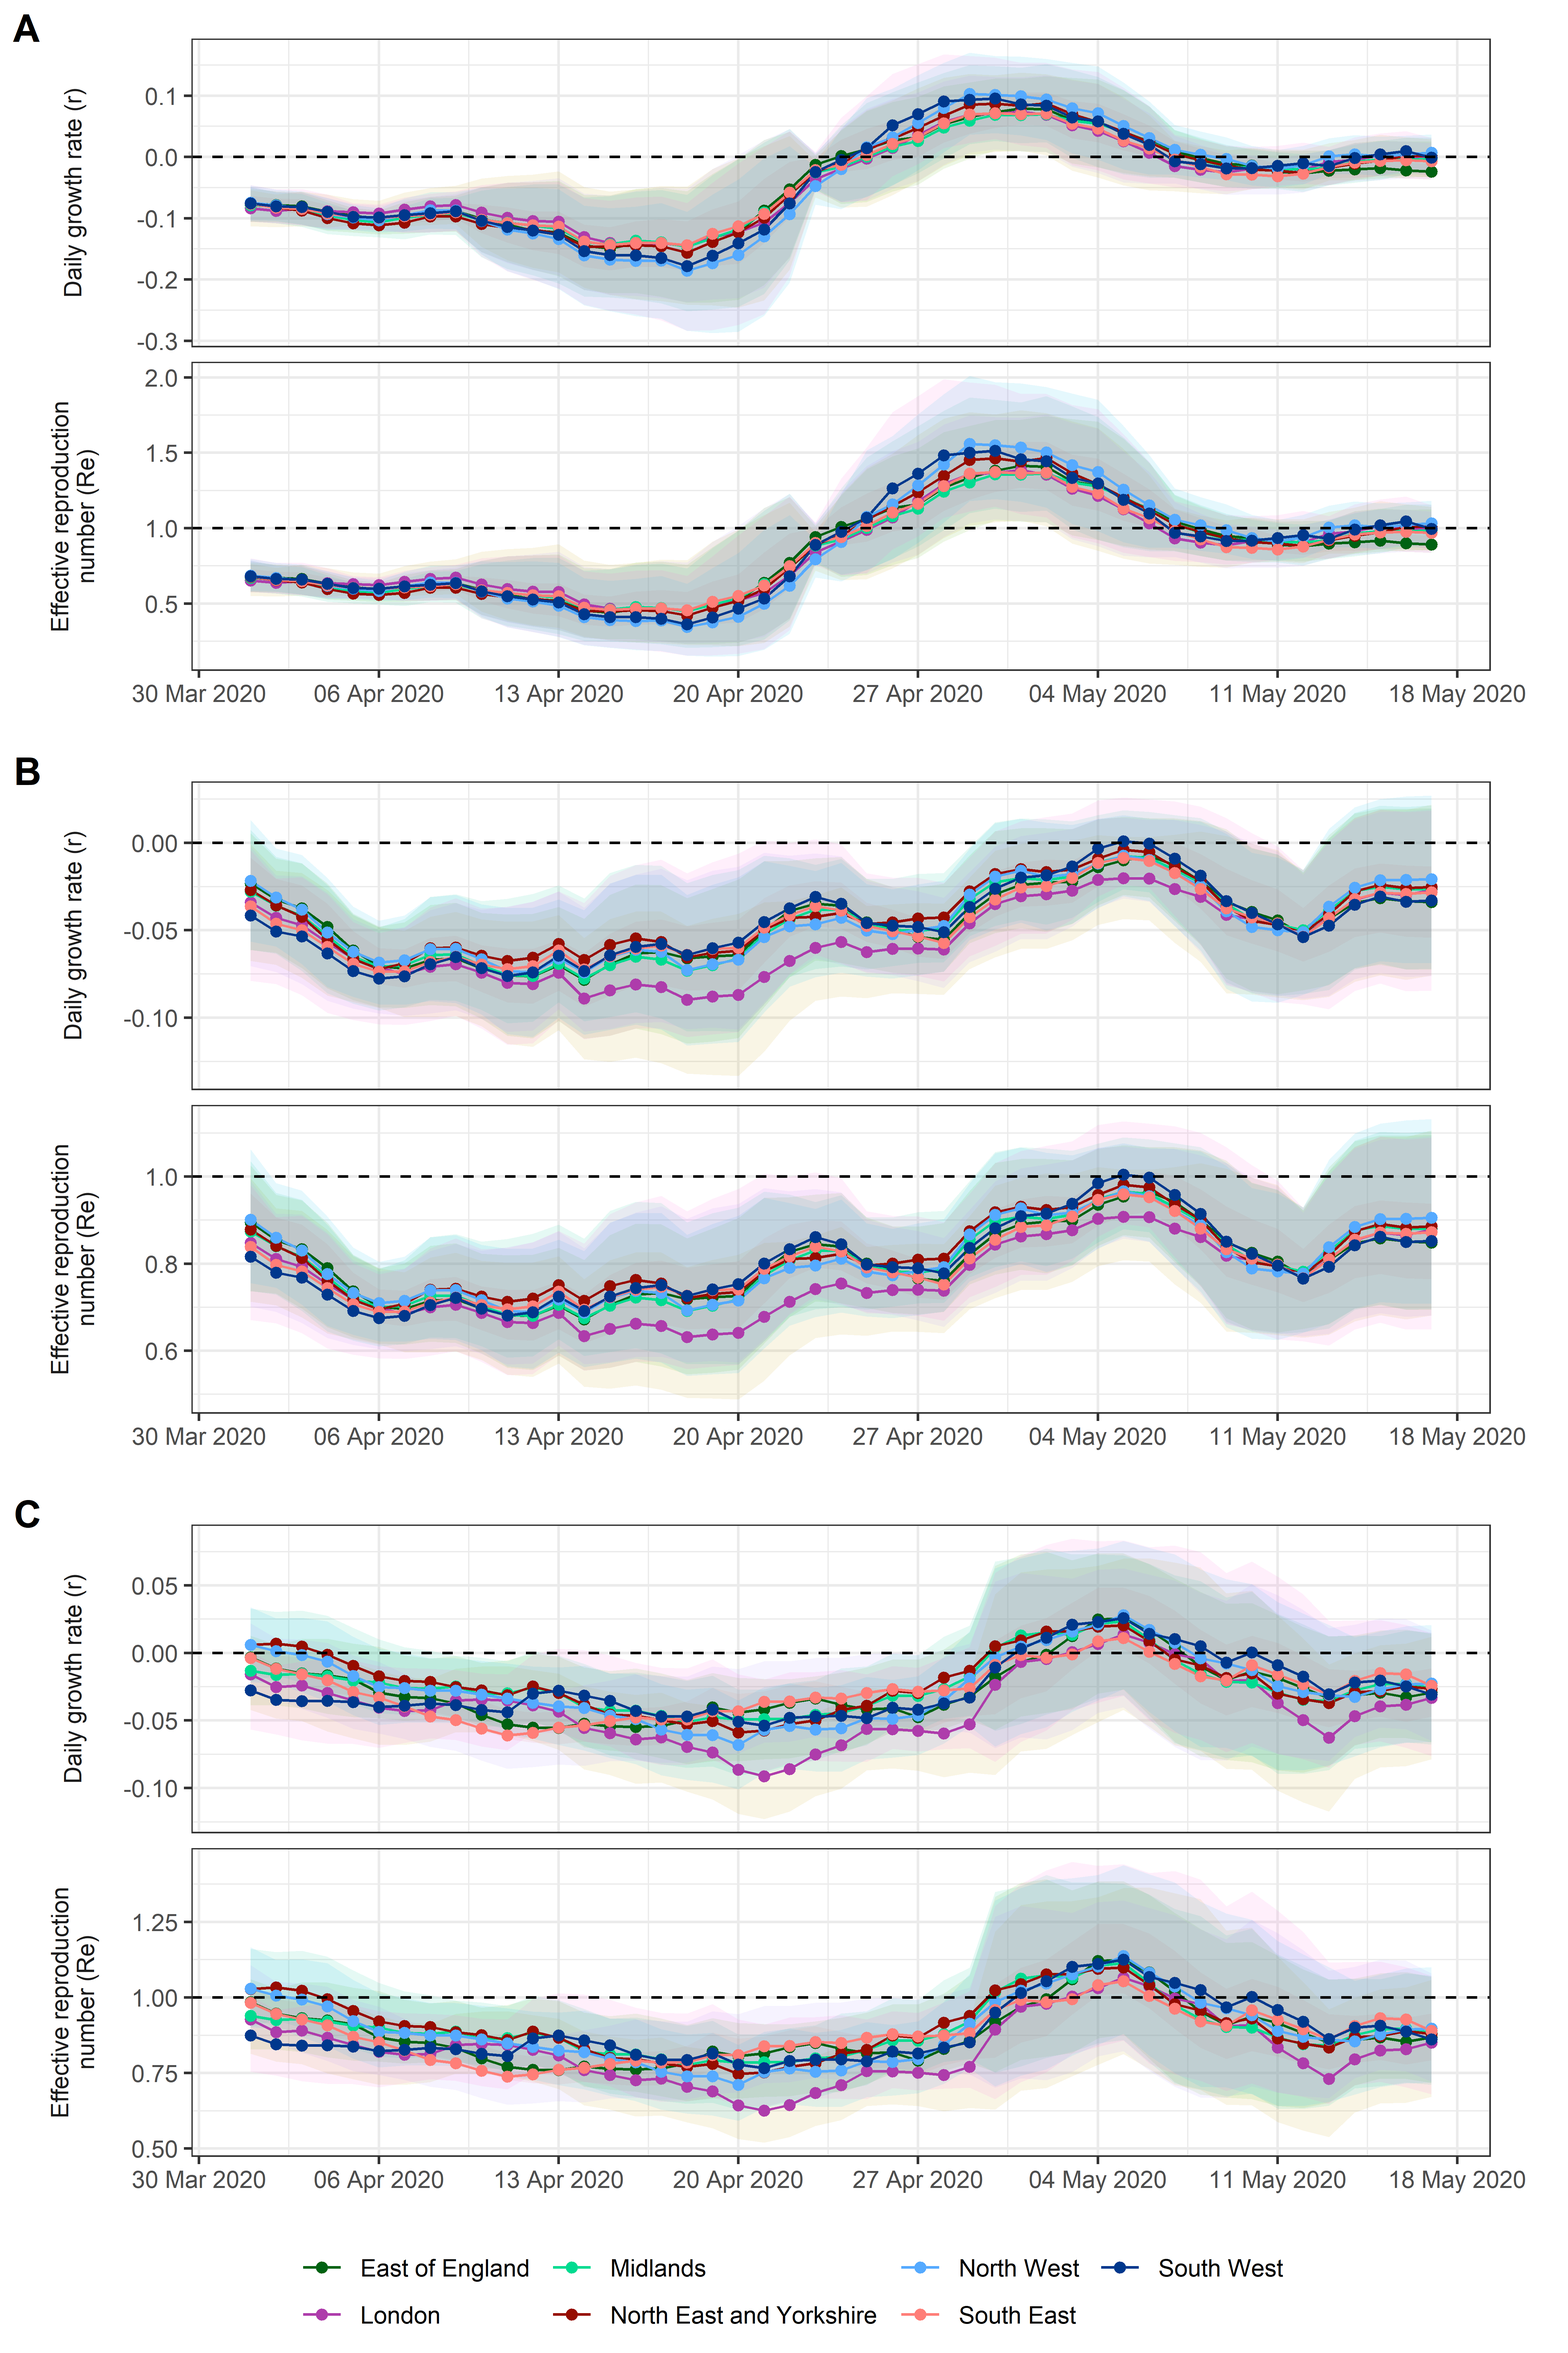
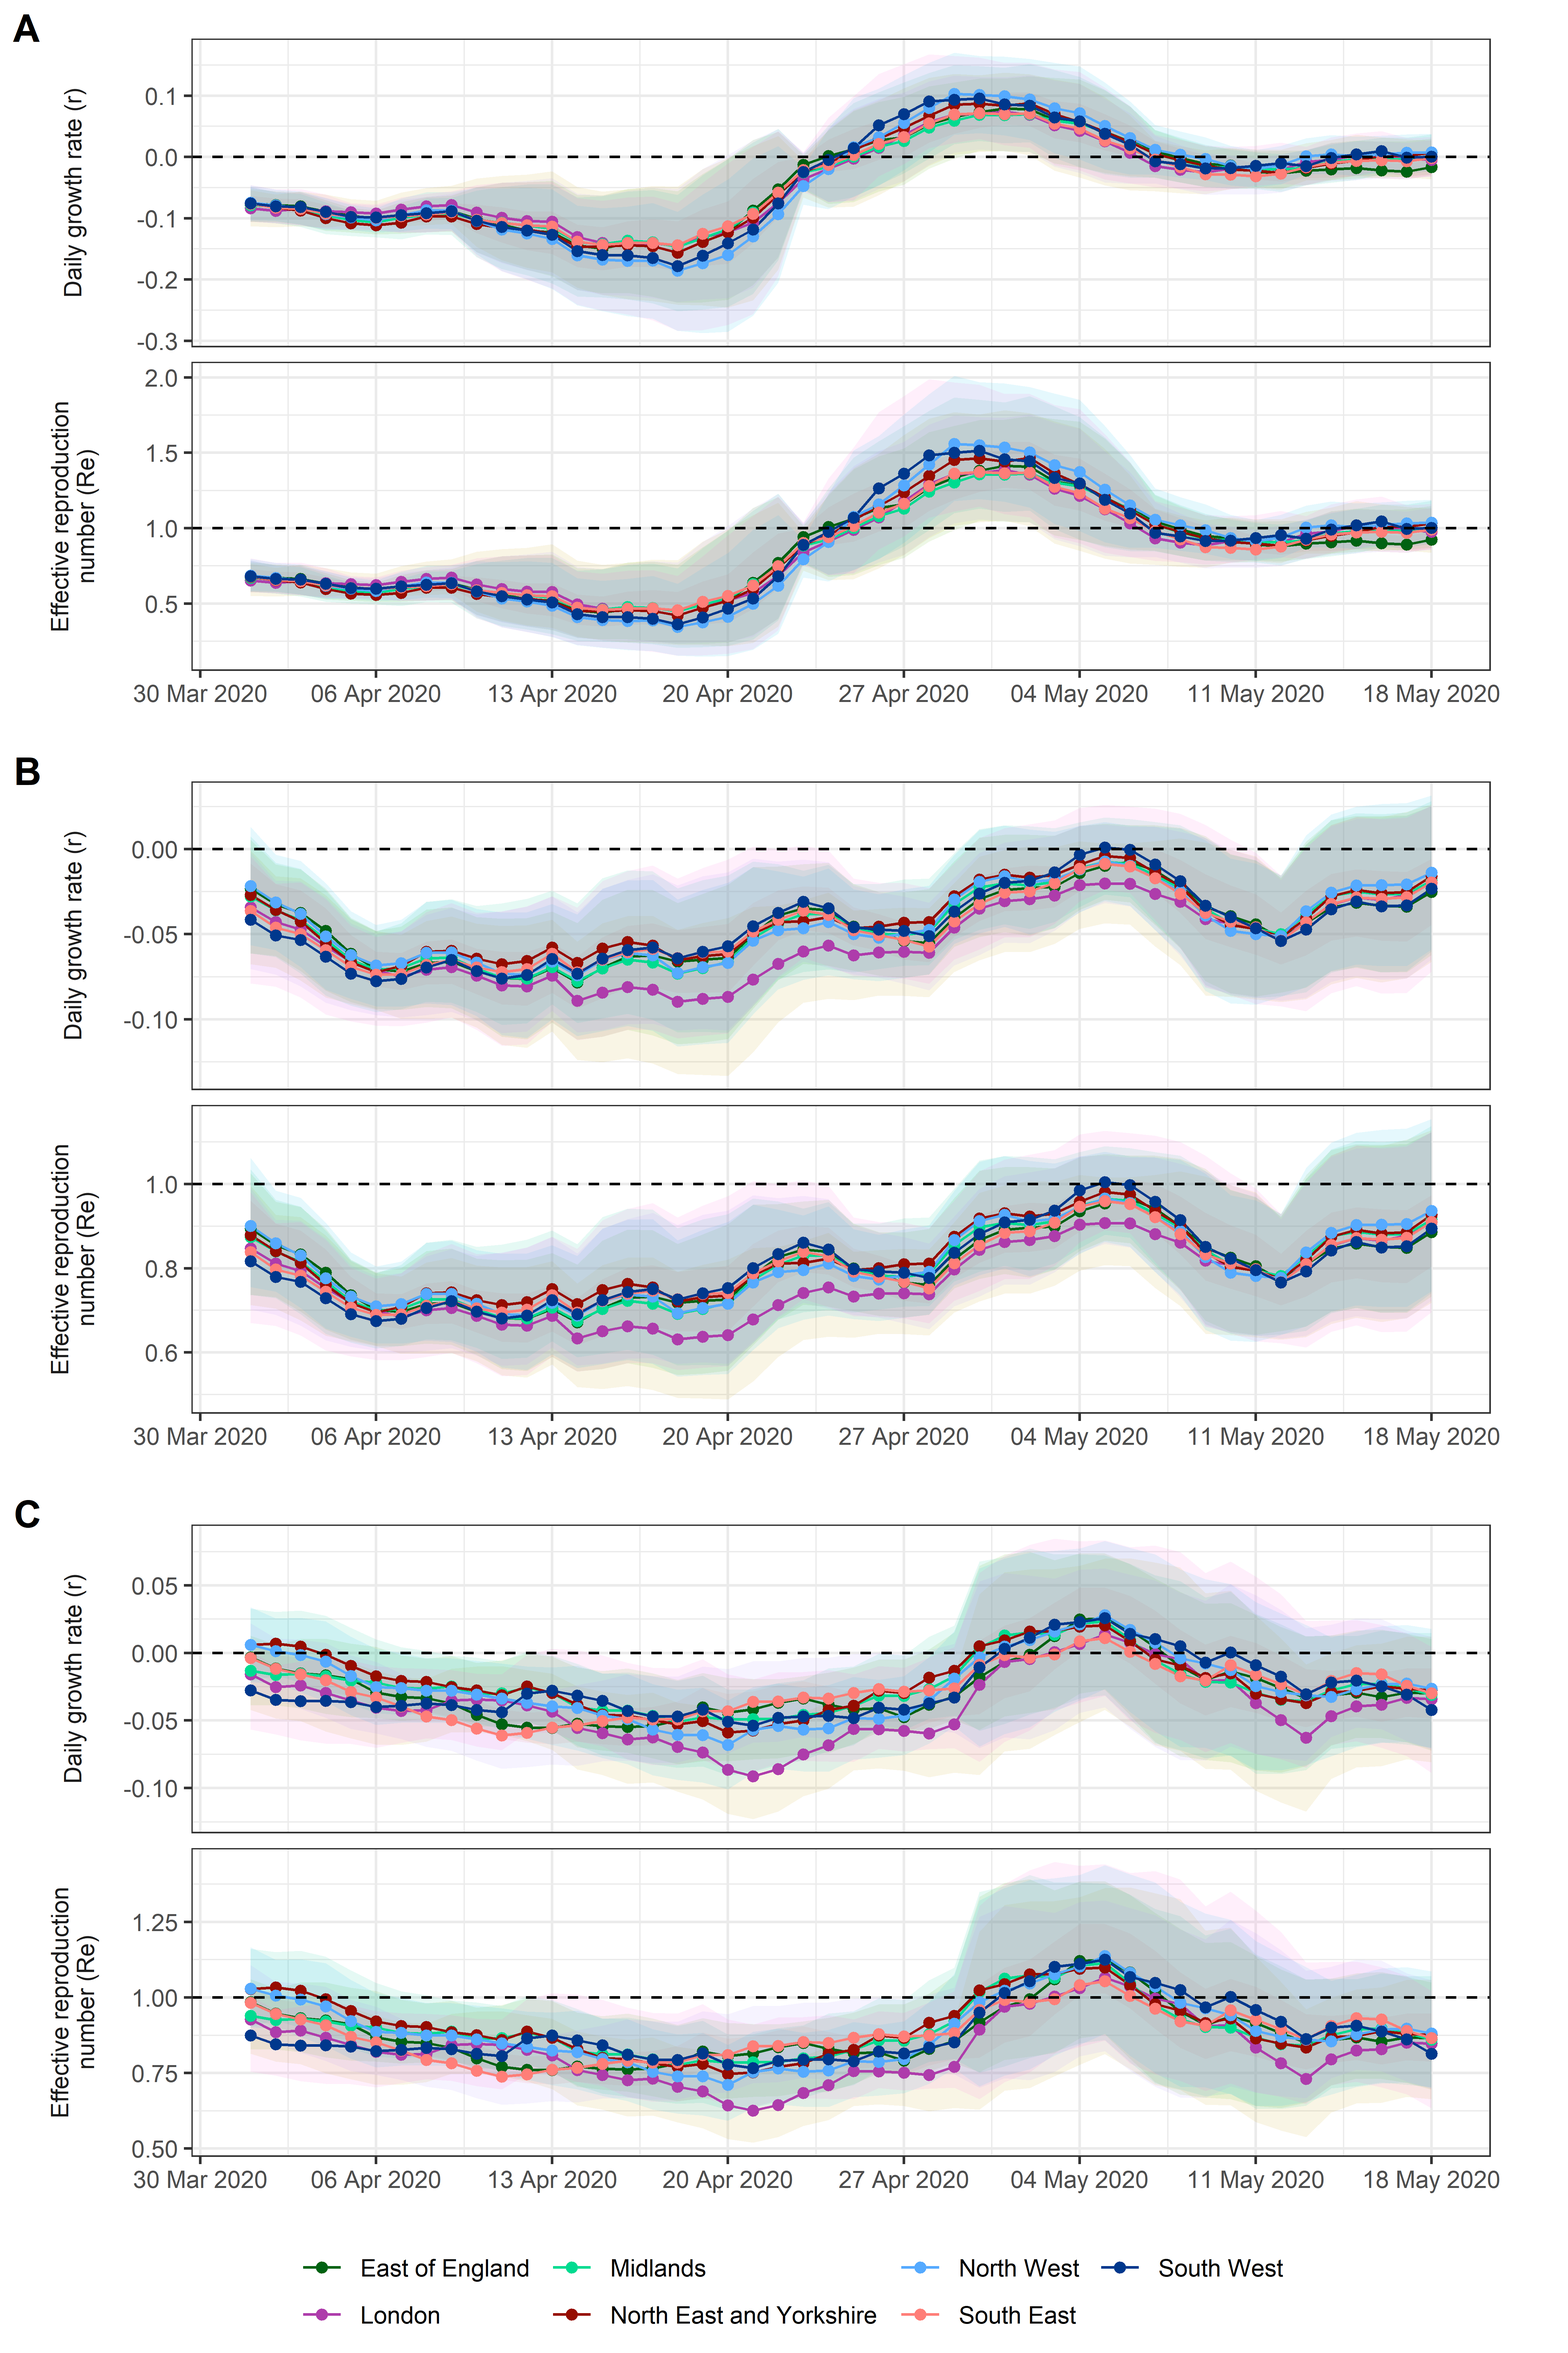
update nhs paths

diff --git a/topics/covid19/_posts/2020-05-18-nhs-pathways.md b/topics/covid19/_posts/2020-05-18-nhs-pathways.md
@@ -3,7 +3,7 @@ title: Analysis of temporal trends in potential COVID-19 cases reported through 
 description: We analyse publicly available data on self-reported COVID-19 symptoms and deaths in England
 tags: transmission-dynamics
 status: real-time-report
-update: 2020-05-18
+update: 2020-05-19
 authors:
   - id: quentin_leclerc
     equal: 1
@@ -20,7 +20,7 @@ authors:
 
 ***This is a summary of the latest trends seen in potential COVID-19
 cases reported through NHS Pathways. The results presented here include
-data up to 2020-05-17.***
+data up to 2020-05-18.***
 
 Introduction
 ------------
@@ -41,7 +41,7 @@ better reflect milder cases and be less biased by different severity
 profiles than hospital admission data, which by definition reflect the
 most acute cases.
 
-Here, we analyse NHS Pathways data until 2020-05-17 to assess the
+Here, we analyse NHS Pathways data until 2020-05-18 to assess the
 temporal dynamics of COVID-19 in England. Specifically, we investigated
 potential changes in the growth rate of the epidemic over time, and
 compared the observed patterns across NHS regions. We derived
@@ -58,7 +58,7 @@ an early detection system.
 Latest results
 --------------
 
-***The results below were generated with data up to 2020-05-17.***
+***The results below were generated with data up to 2020-05-18.***
 
 ### Numbers of daily NHS Pathways report and NHS COVID-19 deaths
 
@@ -103,17 +103,17 @@ of 0.627 (95% CI: 0.488 ; 0.788).
 
 The most recent estimate of
 *r*
-averaged over all NHS regions is -0.025 (95% CI: -0.061 ; 0.012),
+averaged over all NHS regions is -0.018 (95% CI: -0.053 ; 0.017),
 corresponding to an
 *R*<sub>*e*</sub>
-of 0.889 (95% CI: 0.737 ; 1.059).
+of 0.918 (95% CI: 0.771 ; 1.082).
 
 ### Correlation between NHS Pathways reports and deaths
 
 Figure 3 illustrates the observed trend in correlation across all tested
 lags. The strongest correlation between NHS Pathways reports and deaths
-was obtained with a lag of 16 days (Pearson’s correlation = 0.94; 95%
-CI: 0.88 ; 0.97).
+was obtained with a lag of 16 days (Pearson’s correlation = 0.95; 95%
+CI: 0.89 ; 0.97).
 
 Estimates become increasingly unstable for longer lags as the number of
 points within the overlapping time window becomes small.
@@ -128,13 +128,13 @@ replicates.*
 
 <br>
 
-Fitting a quasi-Poisson GLM, we found that over 86.5% of the deviance in
+Fitting a quasi-Poisson GLM, we found that over 87.7% of the deviance in
 daily reported deaths could potentially be explained by NHS Pathways
-reports 16 days prior, with an average of 2.01 (bootstrap 95% CI: 1.5 ;
-2.61) additional deaths for every 1,000 potential COVID-19 cases
-reported in NHS Pathways 16 days before (intercept = 358, 95% CI: 321 ;
-398; % increase per 1000 notifications = 0.01, 95% CI: 0.47 ; 0.66))
-(Figure 4).
+reports 16 days prior, with an average of 2.03 (bootstrap 95% CI: 1.54 ;
+2.6) additional deaths for every 1,000 potential COVID-19 cases reported
+in NHS Pathways 16 days before (intercept = 348, 95% CI: 314 ; 386; %
+increase per 1000 notifications = 0.01, 95% CI: 0.49 ; 0.67)) (Figure
+4).
 
 <br>
 
@@ -156,7 +156,7 @@ Methods
 
 ### Data extraction
 
-We extracted the NHS Pathways data up to 2020-05-17 through the NHS
+We extracted the NHS Pathways data up to 2020-05-18 through the NHS
 Digital website \[1\], where they are updated daily, every weekday. The
 number of reports are stratified by Clinical Commissioning Group (CCG),
 gender and age group (0-18, 19-69 and 70-120 years old) of the patients.
@@ -181,7 +181,7 @@ maximum-likelihood.
 
 To assess potential changes of the growth rate over time, analyses were
 performed over rolling windows of 14 days from the earliest available
-date (2020-03-18) to the latest available one (2020-05-17). Growth rates
+date (2020-03-18) to the latest available one (2020-05-18). Growth rates
 and associated confidence intervals were calculated for each time
 window. Whenever the upper bound of *r* was negative, corresponding
 halving times were calculated as *l**o**g*(0.5)/*r*. Growth rates were
@@ -220,6 +220,48 @@ and distributed under the MIT license.
 <!-- ======================================================= -->
 <!-- ======================================================= -->
 
+Limitations
+-----------
+
+A number of caveats may affect our results. Firstly, the data we
+considered are at best a proxy for the true incidence of COVID-19 in the
+country as they rely on self-reported symptoms interpreted by an
+algorithm, and were not confirmed by virological tests. This is further
+exacerbated by the fact that individuals might access NHS Pathways more
+than once to report their symptoms, which could artificially increase
+the numbers of potential COVID-19 cases.
+
+As NHS Pathways is based on self-reporting, several biases could affect
+the data, such as changes in service availability and delays in the
+uptake of the 111-online reporting system. When estimating growth rates
+over time and geographic regions, we implicitly assume that
+self-reporting behaviours have not substantially changed over time, and
+have been similar across different NHS regions. In reality,
+self-reporting could be strongly biased by behavioural issues, such as
+the effect of news coverage which might lead individuals to pay more
+attention to their symptoms and report them. Inversely, individuals
+could reduce their perception of the risk of the disease over time as
+they become used to hearing about it daily, which would decrease their
+likelihood of noticing and reporting symptoms. Similarly, differences in
+self-reporting behaviours across various age groups would likely bias
+the age composition of the potential COVID-19 cases reported here.
+
+While NHS Pathways data may better capture the epidemic in the community
+than hospitalisation data, these data do not only reflect community
+cases. In fact, a fraction of cases reported through 999 are likely to
+be hospitalised, as well as smaller proportions of cases reported
+through 111 calls and 111-online. Therefore, the data we considered here
+most likely reflect the epidemic as a whole, rather than just in the
+community. We also note that all results presented rely on dates of
+calls or online reports, so that estimates of transmissibility are
+likely lagged by a few days compared to the true, underlying epidemic.
+Unfortunately, the delays from exposure to notification through NHS
+Pathways cannot be estimated from current publicly available data.
+
+<!-- ======================================================= -->
+<!-- ======================================================= -->
+<!-- ======================================================= -->
+
 References
 ----------
 
@@ -238,7 +280,7 @@ Chapman & Hall. 1989.
 
 4 - Wallinga J, Lipsitch M. How generation intervals shape the
 relationship between growth rates and reproductive numbers. Proceedings
-of the Royal Society B: Biological Sciences. 2007 Feb;274(1609):599–604.
+of the Royal Society B: Biological Sciences. 2007 Feb.274(1609):599–604.
 
 5 - Jombart T, Cori A. Epitrix: Small helpers and tricks for epidemics
 analysis \[Internet\]. 2019. Available from:
@@ -246,12 +288,11 @@ analysis \[Internet\]. 2019. Available from:
 
 6 - Nishiura H, Linton NM, Akhmetzhanov AR. Serial interval of novel
 coronavirus (COVID-19) infections. International Journal of Infectious
-Diseases. 2020 Apr;93:284–6.
+Diseases. 2020 Apr.93:284–6.
 
 7 - Statistics » COVID-19 Daily Deaths \[Internet\]. \[cited 2020 May
 14\]. Available from:
 <https://www.england.nhs.uk/statistics/statistical-work-areas/covid-19-daily-deaths/>
 
 8 - R Core Team. R: A language and environment for statistical computing
-\[Internet\]. Vienna, Austria: R Foundation for Statistical Computing; 2020.
-Available from: <https://www.R-project.org/>
+\[Internet\]. Vienna, Austria: R Foundation for Statistical Computing; 2020. Available from: <https://www.R-project.org/>
